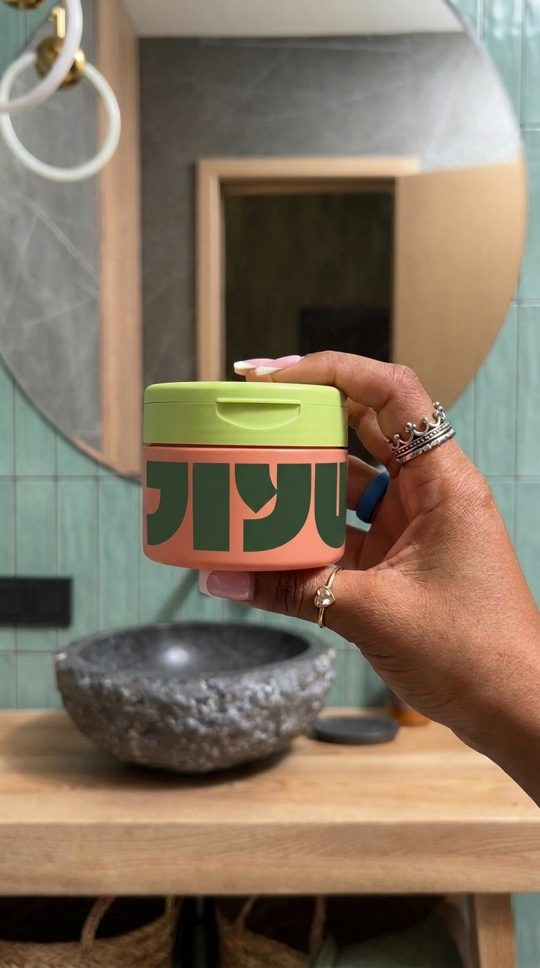
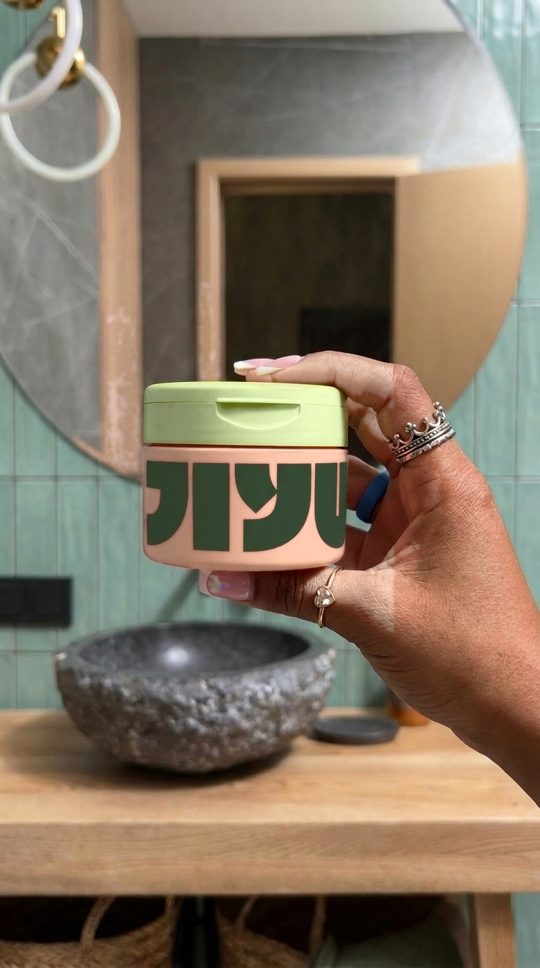
JIYU: S1 free colour fix toward the real original jar (tools/s1_color.py)

Changed region(s): [[0.1778, 0.3409, 0.7407, 0.6508], [0.2074, 0.3099, 0.237, 0.3409]]

diff --git a/ugc/jiyu-polish-pads/review/index.html b/ugc/jiyu-polish-pads/review/index.html
@@ -59,7 +59,7 @@ button:focus-visible{outline:2px solid var(--accent);outline-offset:2px}
   <p class="sub">Grace · her storyboard script word for word · 10 shots, about 31 s · half face only · no text · $1.44 spent of $3.91.</p>
 </header>
 <section class="ask"><strong>3 more fixes? $0.27</strong><p style="margin:0">S2 + S3 as new stills with the jar at a three-quarter angle (every jar still that got the real letters was shot that way), S3 with the hand around the side of the jar; S8 a one-item edit that removes the wrist band. Spent $1.44 of $3.91; after this $1.71.</p></section>
-<section class="box"><h2>Storyboard after round 2 · $1.44 spent</h2><p class="muted">7 of 10 pass. Prompts written with prompt-master (prompts/stills_r2.json).</p><div class="grid9"><div class="st"><img src="st/S1_cur.jpg" alt="Still S1"><div class="h"><span class="n">S1</span><span class="tag ok">ok</span></div><p>Real blocky dark-green letters now.</p></div><div class="st"><img src="st/S2_cur.jpg" alt="Still S2"><div class="h"><span class="n">S2</span><span class="tag redo">redo</span></div><p>Plain letters again (edit did not take).</p></div><div class="st"><img src="st/S3_cur.jpg" alt="Still S3"><div class="h"><span class="n">S3</span><span class="tag redo">redo</span></div><p>Plain letters again and the hand still holds the lid.</p></div><div class="st"><img src="st/S4_cur.jpg" alt="Still S4"><div class="h"><span class="n">S4</span><span class="tag ok">ok</span></div><p>Real jar, tweezers in the lid.</p></div><div class="st"><img src="st/S5_cur.jpg" alt="Still S5"><div class="h"><span class="n">S5</span><span class="tag ok">ok</span></div><p>Real letters, no band on the wrist.</p></div><div class="st"><img src="st/S6_cur.jpg" alt="Still S6"><div class="h"><span class="n">S6</span><span class="tag ok">ok</span></div><p>Face turned away; eyelash tips painted out free.</p></div><div class="st"><img src="st/S7_cur.jpg" alt="Still S7"><div class="h"><span class="n">S7</span><span class="tag ok">ok</span></div><p>Half face, no eyes, no mouth.</p></div><div class="st"><img src="st/S8_cur.jpg" alt="Still S8"><div class="h"><span class="n">S8</span><span class="tag redo">redo</span></div><p>Blue band on the upper wrist (no bracelets). Free paint-out smeared.</p></div><div class="st"><img src="st/S9_cur.jpg" alt="Still S9"><div class="h"><span class="n">S9</span><span class="tag ok">ok</span></div><p>Face turned away; eyelash tips painted out free.</p></div><div class="st"><img src="st/S10_cur.jpg" alt="Still S10"><div class="h"><span class="n">S10</span><span class="tag ok">ok</span></div><p>One jar, real letters.</p></div></div></section>
+<section class="box"><h2>Storyboard after round 2 · $1.44 spent</h2><p class="muted">7 of 10 pass. Prompts written with prompt-master (prompts/stills_r2.json).</p><figure><img src="st/S1_compare.jpg" alt="S1 colour fix: real jar, before, after"><figcaption>S1: real original jar · before · after (free colour fix)</figcaption></figure><div class="grid9"><div class="st"><img src="st/S1_cur.jpg" alt="Still S1"><div class="h"><span class="n">S1</span><span class="tag ok">fixed</span></div><p>JIYU's ORIGINAL jar (peach + green, by design). Colours pulled to the real frosted peach and pastel green, free.</p></div><div class="st"><img src="st/S2_cur.jpg" alt="Still S2"><div class="h"><span class="n">S2</span><span class="tag redo">redo</span></div><p>Plain letters again (edit did not take).</p></div><div class="st"><img src="st/S3_cur.jpg" alt="Still S3"><div class="h"><span class="n">S3</span><span class="tag redo">redo</span></div><p>Plain letters again and the hand still holds the lid.</p></div><div class="st"><img src="st/S4_cur.jpg" alt="Still S4"><div class="h"><span class="n">S4</span><span class="tag ok">ok</span></div><p>Real jar, tweezers in the lid.</p></div><div class="st"><img src="st/S5_cur.jpg" alt="Still S5"><div class="h"><span class="n">S5</span><span class="tag ok">ok</span></div><p>Real letters, no band on the wrist.</p></div><div class="st"><img src="st/S6_cur.jpg" alt="Still S6"><div class="h"><span class="n">S6</span><span class="tag ok">ok</span></div><p>Face turned away; eyelash tips painted out free.</p></div><div class="st"><img src="st/S7_cur.jpg" alt="Still S7"><div class="h"><span class="n">S7</span><span class="tag ok">ok</span></div><p>Half face, no eyes, no mouth.</p></div><div class="st"><img src="st/S8_cur.jpg" alt="Still S8"><div class="h"><span class="n">S8</span><span class="tag redo">redo</span></div><p>Blue band on the upper wrist (no bracelets). Free paint-out smeared.</p></div><div class="st"><img src="st/S9_cur.jpg" alt="Still S9"><div class="h"><span class="n">S9</span><span class="tag ok">ok</span></div><p>Face turned away; eyelash tips painted out free.</p></div><div class="st"><img src="st/S10_cur.jpg" alt="Still S10"><div class="h"><span class="n">S10</span><span class="tag ok">ok</span></div><p>One jar, real letters.</p></div></div></section>
 <section class="box"><h2>Round 1 stills · $0.90</h2>
 <p class="muted">4 pass. 6 need a redo: wrong JIYU lettering (S1, S2, S5), no grip (S3), eyes and lips in frame (S6, S9). The redo prompts put the real letter close-up first, make the hand wrap around the jar, and use the S7 angle (from behind the ear) for the face shots.</p>
 <div class="grid9"><div class="st"><img src="st/S1.jpg" alt="Still S1"><div class="h"><span class="n">S1</span><span class="tag redo">redo</span></div><p>Original jar: right colours, but plain letters. The real JIYU letters are big blocky shapes.</p></div><div class="st"><img src="st/S2.jpg" alt="Still S2"><div class="h"><span class="n">S2</span><span class="tag redo">redo</span></div><p>New jar: plain letters instead of the real blocky JIYU.</p></div><div class="st"><img src="st/S3.jpg" alt="Still S3"><div class="h"><span class="n">S3</span><span class="tag redo">redo</span></div><p>Real letters, but the hand rests on the lid instead of gripping the jar (it has to lift it).</p></div><div class="st"><img src="st/S4.jpg" alt="Still S4"><div class="h"><span class="n">S4</span><span class="tag ok">ok</span></div><p>Real jar, real letters, tweezers in the lid.</p></div><div class="st"><img src="st/S5.jpg" alt="Still S5"><div class="h"><span class="n">S5</span><span class="tag redo">redo</span></div><p>Pad is right; the jar behind it has plain letters and invented small text.</p></div><div class="st"><img src="st/S6.jpg" alt="Still S6"><div class="h"><span class="n">S6</span><span class="tag redo">redo</span></div><p>Eye, nose and lips are in frame. Breaks half face.</p></div><div class="st"><img src="st/S7.jpg" alt="Still S7"><div class="h"><span class="n">S7</span><span class="tag ok">ok</span></div><p>Half face from behind the ear, no eyes, no mouth.</p></div><div class="st"><img src="st/S8.jpg" alt="Still S8"><div class="h"><span class="n">S8</span><span class="tag ok">ok</span></div><p>Night window, tweezers lift a pad, real jar.</p></div><div class="st"><img src="st/S9.jpg" alt="Still S9"><div class="h"><span class="n">S9</span><span class="tag redo">redo</span></div><p>Eye and lips in frame. Breaks half face.</p></div><div class="st"><img src="st/S10.jpg" alt="Still S10"><div class="h"><span class="n">S10</span><span class="tag ok">ok</span></div><p>One jar, real letters, end shot.</p></div></div></section>

diff --git a/ugc/jiyu-polish-pads/tools/s1_color.py b/ugc/jiyu-polish-pads/tools/s1_color.py
@@ -1,0 +1,15 @@
+"""Free colour fix for S1_r2 (2026-10-24): the AI drew the original jar opaque coral with a bright lime lid; the real one
+(refs/real/tp_1-1_*.jpg) is frosted pale peach with a pale pastel-green lid. Pull the jar's colours toward the real
+ones inside the jar's own colour mask only (hand, rings, room untouched). -> stills/S1_r2_fix.png"""
+import cv2, numpy as np
+im = cv2.imread("stills/S1_r2.png"); hsv = cv2.cvtColor(im, cv2.COLOR_BGR2HSV).astype(np.float32)
+H, W = im.shape[:2]; box = np.zeros((H, W), bool); box[400:900, 60:560] = True
+h, s, v = hsv[..., 0], hsv[..., 1], hsv[..., 2]
+coral = box & (h >= 0) & (h <= 14) & (s > 90) & (v > 120)       # jar body
+lime = box & (h >= 28) & (h <= 45) & (s > 90) & (v > 120)        # lid
+for m, s_mul, v_add, h_to in ((coral, 0.62, 18, 10), (lime, 0.55, 22, 38)):
+    k = cv2.GaussianBlur(m.astype(np.float32), (9, 9), 0)        # soft edge so no outline
+    s2 = s * (1 - k) + s * s_mul * k; v2 = np.clip(v + v_add * k, 0, 255); h2 = h * (1 - k) + h_to * k
+    s, v, h = s2, v2, h2
+out = cv2.cvtColor(np.dstack([h, s, v]).clip(0, 255).astype(np.uint8), cv2.COLOR_HSV2BGR)
+cv2.imwrite("stills/S1_r2_fix.png", out); print("coral px", int(coral.sum()), "lime px", int(lime.sum()))
